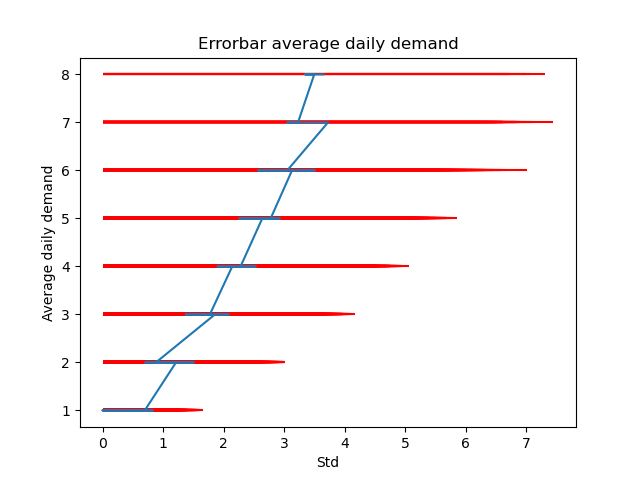
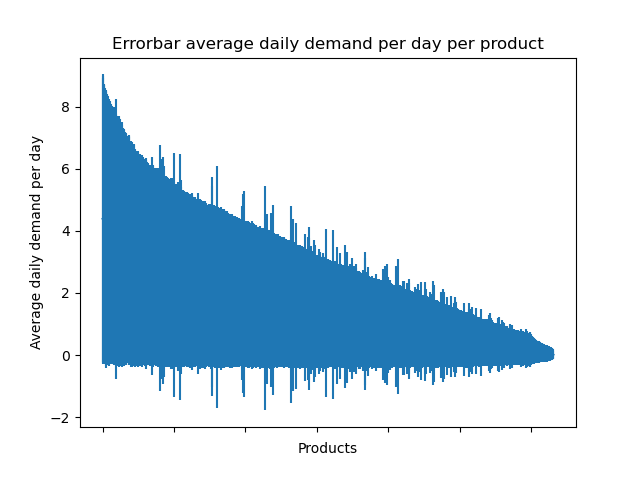
zeros buckets added to demand per product per day

diff --git a/final/belsimpel.py b/final/belsimpel.py
@@ -33,7 +33,6 @@ if es.indices.exists(index=index_name) == False:
     ingest_csv_file_into_elastic_index(
         file, es, index_name, template=template, properties=prop, buffer_size=buffer_size)
 
-
 file_sizes = os.path.join(sys.path[0], "data_dapom_sizes.csv")
 file_margins = os.path.join(sys.path[0], "data_dapom_margins.csv")
 encode_file_sizes = get_encoding_from_file(file_sizes)
@@ -57,9 +56,9 @@ get_products_search = {
     }
 }
 
-
 all_products = es.search(index=index_name, body=get_products_search)
 df_products = pd.json_normalize(all_products["aggregations"]["products"]["buckets"])
+print(df_products)
 df_products["profit_margin"] = df_margins["margin"]
 df_products["product_volume_cm3"] = df_sizes["length"] * df_sizes["width"] * df_sizes["height"]
 df_products.drop(columns=["doc_count"], inplace=True)
@@ -82,6 +81,7 @@ for index, row in df_products.iterrows():
                 "terms": {
                     "field": "day",
                     "size": 100000,
+                    # "min_doc_count": 0, # this is working to also get 0 buckets, but this is very slow 
                     "order": {
                         "_key": "asc"
                     }
@@ -91,25 +91,51 @@ for index, row in df_products.iterrows():
     }
 
     product_search_result = es.search(index=index_name, body=product_search_id)
+    #TODO: dit klopt nog niet want de aggs neemt geen 0 waardes, dus bijv. wanneer een product op day 2 niet verkocht wordt dan moet er nul staan, dus de length van de lijst is niet hetzelfde als de oude lijst
+    # maak een df en voeg daar 1 tm length(day) allemaal vol met nullen. 
     df_demand_per_product_per_day = pd.json_normalize(product_search_result["aggregations"]["days"]["buckets"])
+    
+    #TODO: this can be an function 
+    #adding zeroes for the days that the product hasn't been sold 
+    length_df_demand_per_product_per_day = len(df_demand_per_product_per_day)
+    length_df_products = len(df_products)
+    if length_df_demand_per_product_per_day != length_df_products:
+        # create an array based on the ending point (len) of the demand per product per day until endpoint of df_products 
+        zero_keys = np.arange(length_df_demand_per_product_per_day, length_df_products, 1)
+        # create an array of zeros based on the difference in df length between df_products and df_demand_per_product_per_day
+        zero_doc_count = np.zeros(length_df_products - length_df_demand_per_product_per_day)
+        # https://pandas.pydata.org/pandas-docs/stable/user_guide/merging.html
+        df_zeroes = pd.DataFrame(
+            {
+                "key": zero_keys,
+                "doc_count": zero_doc_count
+            },
+            index=zero_keys
+        )
+        df_demand_per_product_per_day = pd.concat([df_demand_per_product_per_day, df_zeroes])
+
+    # for key in range(len(df_demand_per_product_per_day), len(df_products)): # this is working to also fill the zero buckets, but this is very slow 
+    #     df_demand_per_product_per_day.loc[key] = [key, 0]
+    print("length of demand per product per day", len(df_demand_per_product_per_day))
     df_products.at[index, "total_demand"] = df_demand_per_product_per_day["doc_count"].sum()
-    df_products.at[index, "average_demand_per_day"] = round(df_demand_per_product_per_day["doc_count"].mean())
+    df_products.at[index, "average_demand_per_day"] = df_demand_per_product_per_day["doc_count"].mean()
     df_products.at[index, "std_demand_per_day"] = df_demand_per_product_per_day["doc_count"].std()
 
 print(df_products)
 
 df_error_bar = df_products[["product_id","average_demand_per_day","std_demand_per_day"]].sort_values(by="average_demand_per_day", ascending=False)
-print(df_error_bar)
+# print(df_error_bar)
 
-x = df_error_bar["std_demand_per_day"]
+x = np.arange(0, len(df_error_bar["product_id"]), 1) 
 y = df_error_bar["average_demand_per_day"]
 error = df_error_bar["std_demand_per_day"]
 
 ax = plt.subplot()
-ax.errorbar(x, y, xerr=error, ecolor="red")
-ax.set_xlabel("Std")
-ax.set_ylabel("Average daily demand")
-ax.set_title("Errorbar average daily demand")
+ax.errorbar(x, y, yerr=error)
+ax.set_xlabel("Products")
+ax.set_xticklabels([])
+ax.set_ylabel("Average daily demand per day")
+ax.set_title("Errorbar average daily demand per day per product")
 
 plt.savefig(os.path.join(sys.path[0], 'errorbar_daily_avg.png'))
 # plt.show()
